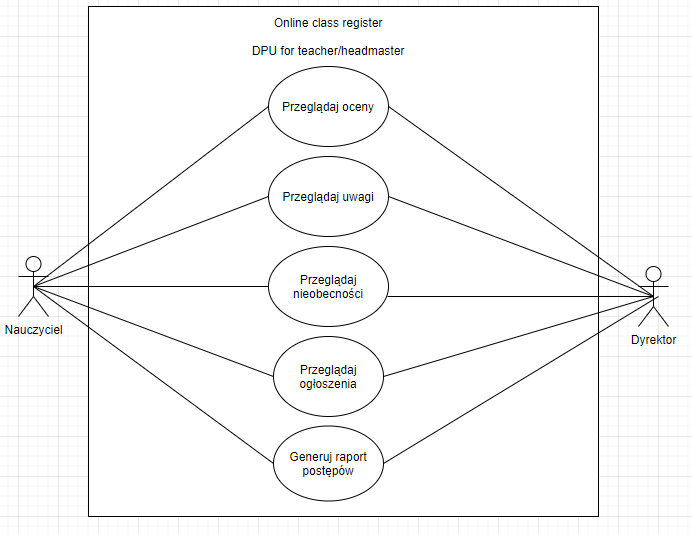
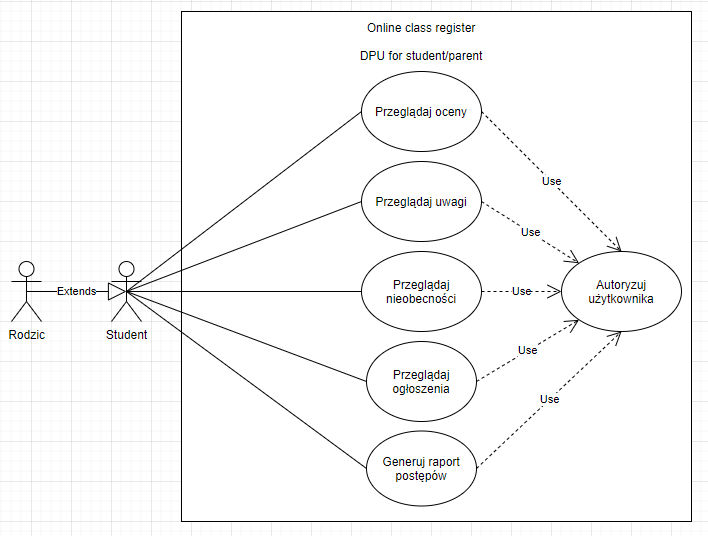
adjust scenarios/diagrams to current version of system, minor fix in backend (Role name for parent)

diff --git a/Online_class_register/backend/application/controllers/class_register_api/user/personal_absence.php b/Online_class_register/backend/application/controllers/class_register_api/user/personal_absence.php
@@ -20,7 +20,7 @@ class personal_absence extends REST_Controller{
 
     //Read absence
     public function read_absence_get(){
-        if(personal_absence::tokenAccessValidation("Student","Parent")){
+        if(personal_absence::tokenAccessValidation("Student","Rodzic")){
             $headers = $this->input->request_headers();
             $token = $headers['Authorization'];
             $decoded_token = authorization::validateToken($token);
@@ -36,7 +36,7 @@ class personal_absence extends REST_Controller{
 
     //Read single absence
     public function read_single_absence_get(){
-        if(personal_absence::tokenAccessValidation("Student","Parent")){
+        if(personal_absence::tokenAccessValidation("Student","Rodzic")){
             $data = json_decode(file_get_contents("php://input"));
             if(isset($data->absence_id)){
                 $headers = $this->input->request_headers();

diff --git a/Online_class_register/backend/application/controllers/class_register_api/user/personal_note.php b/Online_class_register/backend/application/controllers/class_register_api/user/personal_note.php
@@ -20,7 +20,7 @@ class personal_note extends REST_Controller{
 
     //Read note
     public function read_note_get(){
-        if(personal_note::tokenAccessValidation("Student","Parent")){
+        if(personal_note::tokenAccessValidation("Student","Rodzic")){
             $headers = $this->input->request_headers();
             $token = $headers['Authorization'];
             $decoded_token = authorization::validateToken($token);
@@ -36,7 +36,7 @@ class personal_note extends REST_Controller{
 
     //Read single note
     public function read_single_note_get(){
-        if(personal_note::tokenAccessValidation("Student","Parent")){
+        if(personal_note::tokenAccessValidation("Student","Rodzic")){
             $data = json_decode(file_get_contents("php://input"));
             if(isset($data->note_id)){
                 $headers = $this->input->request_headers();

diff --git a/Online_class_register/backend/application/controllers/class_register_api/user/personal_grade.php b/Online_class_register/backend/application/controllers/class_register_api/user/personal_grade.php
@@ -20,7 +20,7 @@ class personal_grade extends REST_Controller{
 
     //Read grade
     public function read_grade_get(){
-        if(personal_grade::tokenAccessValidation("Student","Parent")){
+        if(personal_grade::tokenAccessValidation("Student","Rodzic")){
             $headers = $this->input->request_headers();
             $token = $headers['Authorization'];
             $decoded_token = authorization::validateToken($token);
@@ -51,7 +51,7 @@ class personal_grade extends REST_Controller{
 
     //Read single grade
     public function read_single_grade_get(){
-        if(personal_grade::tokenAccessValidation("Student","Parent")){
+        if(personal_grade::tokenAccessValidation("Student","Rodzic")){
             $data = json_decode(file_get_contents("php://input"));
 
             if(isset($data->grade_id)){

diff --git a/Online_class_register/backend/application/controllers/class_register_api/login/parent_login.php b/Online_class_register/backend/application/controllers/class_register_api/login/parent_login.php
@@ -31,7 +31,7 @@ class parent_login extends REST_Controller{
             if(!empty($parent_details)){
                 if(password_verify($password, $parent_details->parent_password)){
                     if($parent_details->parent_is_active == 1){
-                        $parent_details->user_role = "Parent";
+                        $parent_details->user_role = "Rodzic";
                         $token = authorization::generateToken((array)$parent_details);
                         $this->response(array("status" => 1,"message" => "Login successfully","token" => $token), parent::HTTP_OK);
                     } else {

diff --git a/Online_class_register/backend/application/controllers/class_register_api/user/personal_subject.php b/Online_class_register/backend/application/controllers/class_register_api/user/personal_subject.php
@@ -20,7 +20,7 @@ class personal_subject extends REST_Controller{
 
     //Read subject
     public function read_subject_get(){
-        if(personal_subject::tokenAccessValidation("Student","Parent")){
+        if(personal_subject::tokenAccessValidation("Student","Rodzic")){
             $headers = $this->input->request_headers();
             $token = $headers['Authorization'];
             $decoded_token = authorization::validateToken($token);
